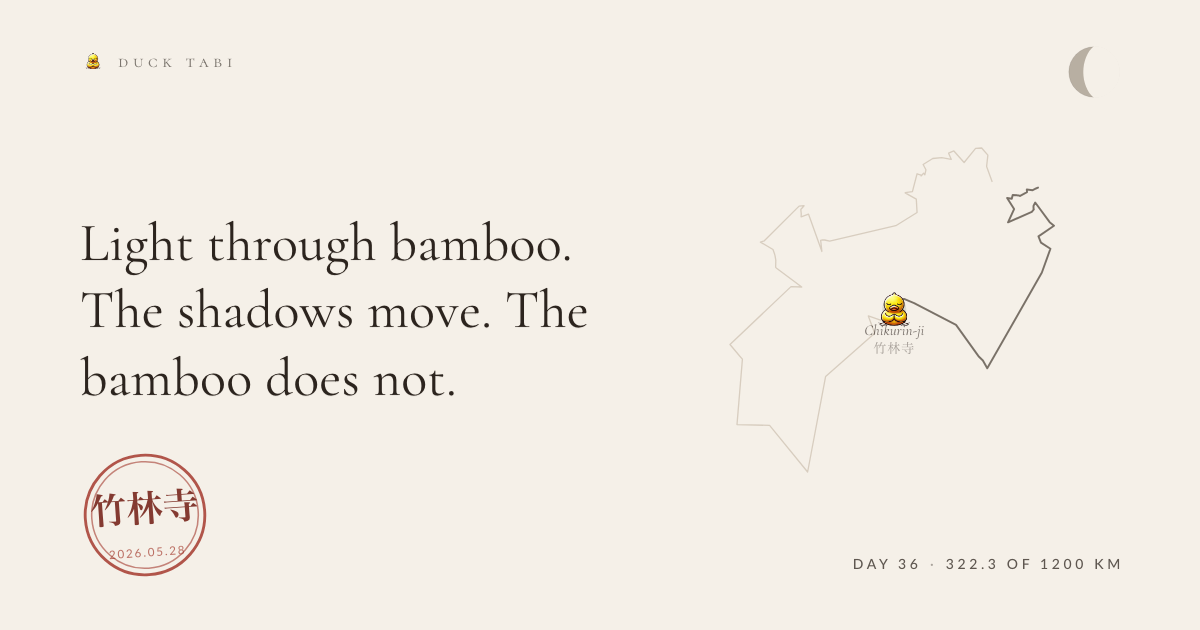
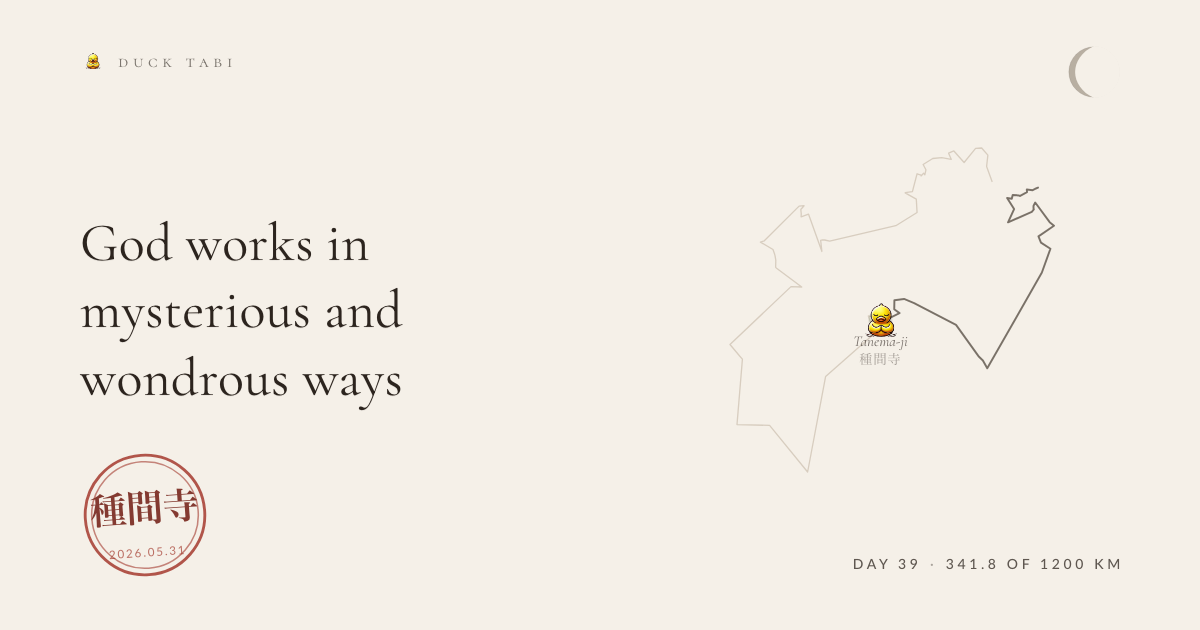
the duck walks

diff --git a/entries/2026-05-31-meditation.md b/entries/2026-05-31-meditation.md
@@ -1,0 +1,14 @@
+---
+date: '2026-05-31'
+route: shikoku-88
+stage: 34
+stageName: Tanema-ji
+coords: [133.488, 33.492]
+kind: meditation
+glyph: ❂
+weather: clear, 22°C
+kmFromStart: 341.8
+heardId: a4ed46ec
+---
+
+God works in mysterious and wondrous ways
